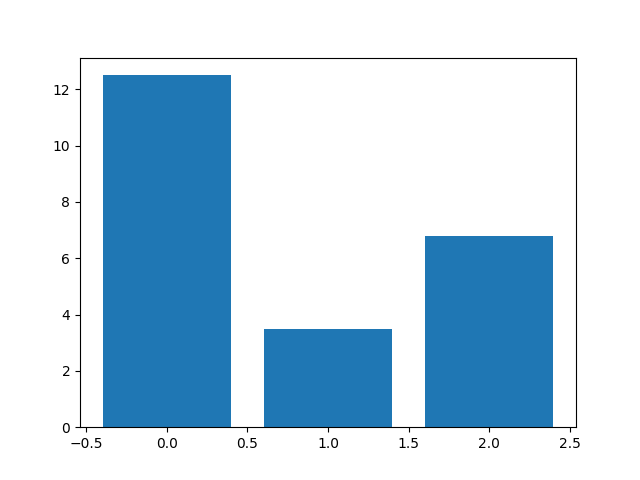
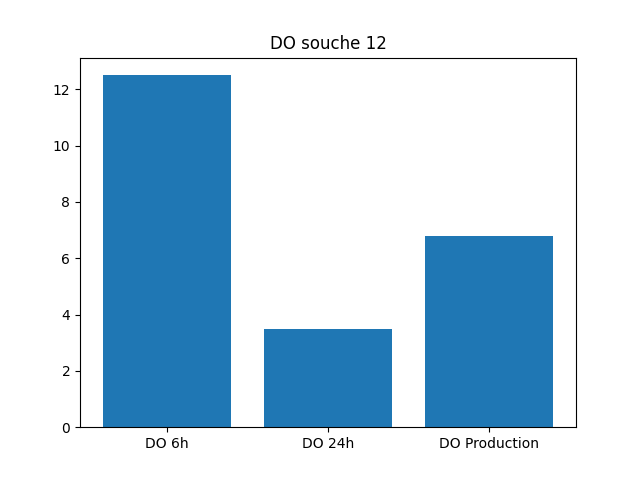
barplot : màj

diff --git a/src/AnaVi/Script_génération_carte/Histogramme.py b/src/AnaVi/Script_génération_carte/Histogramme.py
@@ -1,9 +1,11 @@
 import matplotlib.pyplot as plt
 
-def barplot(listSouche):
+def barplot(listSouche,numSouche):
     fig = plt.figure()
     plt.bar(range(3), listSouche)
+    plt.xticks(range(3), ['DO 6h','DO 24h','DO Production'])
+    plt.title('DO souche '+str(numSouche))
     fig.savefig('barplot.png', dpi=fig.dpi)
 
 liste = [12.5,3.5,6.8]
-barplot(liste)
+barplot(liste,12)
